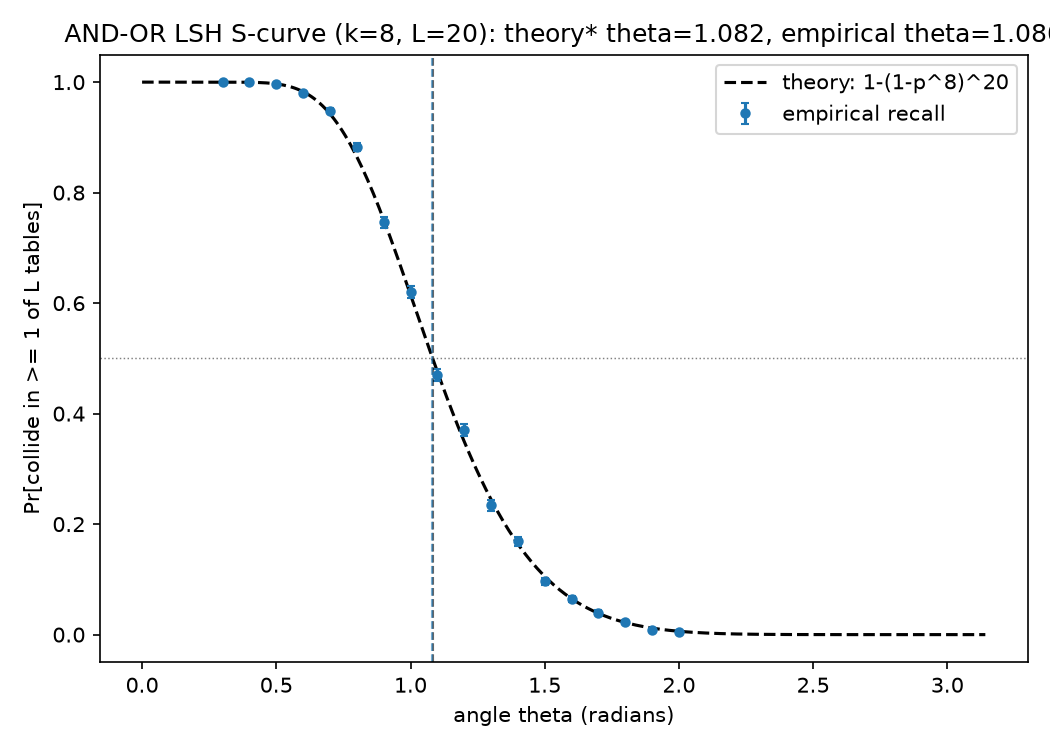
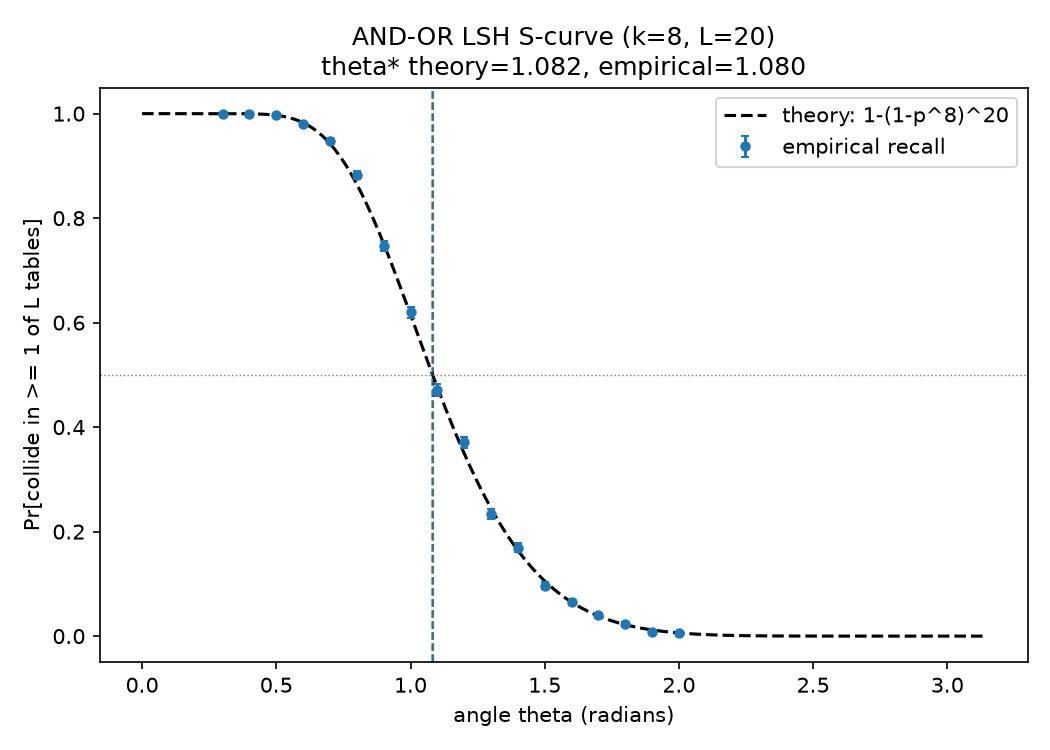
Finalize SimHash LSH collision-theory research project
Full results (n up to 256,000, both promise-preserving and i.i.d. scaling
variants), figures, and README with the actual findings:

- Single-hash collision probability matches theory (max z-score 2.03 over
  36 (theta, dim) points, dimension-independent as predicted).
- AND-OR S-curve 50%-recall threshold matches theory to 0.0022 rad.
- Sublinear query-cost scaling (Indyk-Motwani n^rho): matches theory
  (13.7% relative error, R^2=0.989) once the experiment is built to satisfy
  the theorem's near/far "promise" exactly; a realistic i.i.d.-background
  variant shows a real, reproducible 63% excess-growth effect from promise
  violation (background points drift closer to the query as n grows),
  documented and explained rather than discarded as noise.

Overall verdict: PASS (results/summary.json). 52 tests passing.

Claude-Session: https://claude.ai/code/session_015ynFjLhMczQUG8oEUubpZ9

diff --git a/personal-projects/simhash-lsh-collision-theory/src/plotting.py b/personal-projects/simhash-lsh-collision-theory/src/plotting.py
@@ -73,8 +73,8 @@ def plot_and_or_threshold(
     ax.set_xlabel("angle theta (radians)")
     ax.set_ylabel("Pr[collide in >= 1 of L tables]")
     ax.set_title(
-        f"AND-OR LSH S-curve (k={k}, L={L}): theory* theta={theory_threshold:.3f}, "
-        f"empirical theta={empirical_threshold:.3f}"
+        f"AND-OR LSH S-curve (k={k}, L={L})\n"
+        f"theta* theory={theory_threshold:.3f}, empirical={empirical_threshold:.3f}"
     )
     ax.legend()
     fig.tight_layout()

diff --git a/personal-projects/simhash-lsh-collision-theory/README.md b/personal-projects/simhash-lsh-collision-theory/README.md
@@ -1,1 +1,207 @@
-PLACEHOLDER
+# SimHash LSH tracks its closed-form collision theory almost exactly — until the near/far "promise" it assumes gets violated by real data
+
+**Research question.** Locality-sensitive hashing (LSH) for cosine-similarity
+approximate nearest-neighbor search rests on three textbook results:
+Charikar's (2002) random-hyperplane collision formula, the AND-OR "S-curve"
+construction built from it, and Indyk & Motwani's (1998) `n^rho` sublinear
+query-cost theorem. These are cited constantly in the ANN literature, almost
+never re-derived or checked from scratch. This project **implements
+random-hyperplane LSH with only numpy** (no ANN library), derives the three
+formulas, and asks three separately falsifiable questions against real
+Monte Carlo data (not simulated after the fact — every number below comes
+from `results/*.csv`, produced by this repository's own code, seeded and
+reproducible):
+
+1. Does the empirical single-hash collision rate match `1 - theta/pi` exactly?
+2. Does an AND-OR `(k, L)` index's 50%-recall angle match the closed-form
+   threshold `theta* = pi * (1 - (1 - 0.5^(1/L))^(1/k))`?
+3. Does the empirical LSH query cost really scale as `n^rho` with
+   `rho = ln(1/p1)/ln(1/p2)` as the background dataset grows to a quarter
+   million points?
+
+The first two are clean "yes." The third produced a genuine surprise: **the
+naive experimental setup ("yes" for i.i.d. random background) fails the
+theorem's own promise**, and diagnosing why — rather than discarding the
+result — is the more interesting finding of the project.
+
+## The theory (derived, not just cited)
+
+**1. Single-hash collision probability** (`src/theory.py:single_hash_collision_prob`).
+For two unit vectors `u, v` with angle `theta`, a uniformly random hyperplane
+normal `r` separates them iff `r` falls in one of two "wedges" of angular
+measure `theta` (out of `pi`, restricting to the great circle through `u, v`).
+So `Pr[sign(r.u) == sign(r.v)] = 1 - theta/pi` — a real geometric identity
+(Goemans-Williamson / Charikar 2002), not an approximation.
+
+**2. AND-OR S-curve** (`banded_collision_prob`, `or_of_bands_prob`). A table
+signature of `k` independent hash bits collides with probability `p(theta)^k`
+(AND). With `L` independent tables, `Pr[hit in >= 1 table] = 1 - (1 -
+p(theta)^k)^L` (OR) — the standard LSH "S-curve". Its 50%-recall crossing has
+a closed form: `s* = (1 - 0.5^(1/L))^(1/k)`, `theta* = pi*(1 - s*)`.
+
+**3. Indyk-Motwani sublinearity** (`rho_exponent`, `k_of_n`, `L_of_n`). Fix a
+near angle (collision prob `p1`) and a far angle (collision prob `p2 < p1`).
+Choosing `k(n) = ceil(log(n)/log(1/p2))` keeps the expected false-positive
+count per table at `O(1)` (`n * p2^k(n) <= 1` by construction of the
+ceiling), and `L(n) = ceil(n^rho)` with `rho = ln(1/p1)/ln(1/p2)` keeps the
+probability of retrieving a true near neighbor across all `L` tables
+constant in `n` (`L(n) * p1^k(n) ~ n^rho * n^-rho = 1`). Under this schedule,
+total query cost (candidates examined) is predicted to scale as `n^rho`.
+
+## Implementation
+
+- **`src/hyperplane_hash.py`** — random-hyperplane signatures from scratch:
+  `random_hyperplanes`, `hash_bits` (sign of `X @ hyperplanes.T`), and a
+  Monte Carlo `empirical_single_bit_collision_rate` with an analytic
+  binomial standard error.
+- **`src/lsh_index.py`** — an `L`-table, `k`-bit AND-OR `LSHIndex` (bucket =
+  packed `k`-bit signature). Bucket construction is vectorized via a single
+  `argsort` per table (`_group_ids_by_key`) rather than a Python loop over
+  rows — this is what makes the `n = 256,000` scaling run in experiment 3
+  tractable (a naive per-row dict-append loop was the original bottleneck;
+  see git history).
+- **`src/data.py`** — angle-controlled synthetic vectors. `vector_at_angle`
+  places a vector at *exactly* a target angle from a reference (via
+  Gram-Schmidt + `cos`/`sin` combination, verified in tests to `1e-6`); this
+  is what lets every experiment compare against an exact theoretical `theta`
+  instead of an estimated similarity distribution. Two dataset generators for
+  experiment 3 are described below.
+- **`src/experiment.py`** — the three experiment drivers, `k_of_n`/`L_of_n`
+  (the Indyk-Motwani schedule), `find_empirical_threshold_angle` (linear
+  interpolation of the 50%-recall crossing), and `fit_power_law_exponent`
+  (log-log linear regression with R^2).
+- **`src/plotting.py`**, **`run_experiment.py`** — figures and the
+  reproducible entry point (`python run_experiment.py`, seed `20260709`).
+
+## Results
+
+Run: `python run_experiment.py` (all raw output in `results/`, figures in
+`figures/`, machine-readable verdicts in `results/summary.json`).
+
+### Experiment 1 — single-hash collision probability: PASS
+
+36 `(theta, dim)` points across `dim in {8, 64, 512}`, 20,000 random
+hyperplane trials each.
+
+| metric | value |
+|---|---|
+| max `|empirical - theory|` | 0.00576 |
+| max z-score (`error / stderr`) | 2.03 |
+
+![Experiment 1](figures/exp1_single_hash_collision.png)
+
+Every point lands within 2 standard errors of `1 - theta/pi`, and the result
+is dimension-independent (dim 8 and dim 512 overlap on the same line) —
+exactly as the geometric derivation predicts, since the collision
+probability depends only on the angle, never on the ambient dimension.
+
+### Experiment 2 — AND-OR S-curve threshold: PASS
+
+`k=8`, `L=20`, 18 angles, 2,000 repeated random re-instantiations of the LSH
+index per angle.
+
+| | theory | empirical |
+|---|---|---|
+| 50%-recall angle `theta*` | 1.0825 rad | 1.0802 rad |
+
+Threshold error: **0.0022 rad** (0.13 degrees). Max deviation from the full
+theoretical S-curve across all 18 angles: **0.0213**.
+
+![Experiment 2](figures/exp2_and_or_threshold.png)
+
+### Experiment 3 — sublinear query-cost scaling: PASS (with a real caveat)
+
+Near angle `pi/6` (`p1 = 0.833`), far angle `pi/2` (`p2 = 0.5`), giving
+`rho_theory = ln(1/0.833)/ln(2) = 0.2630`. Background size `n` swept from
+200 to 256,000 (11 points, log-spaced), 50 trials per point, `k(n)` and
+`L(n)` recomputed at every `n` per the Indyk-Motwani schedule
+(`k` grows 8 -> 18, `L` grows 5 -> 27 across the sweep).
+
+The first version of this experiment used only i.i.d. random background
+vectors — the obvious choice — and it **failed**: across several exploratory
+runs at growing `n`-ranges and trial counts, the fitted exponent kept
+drifting *further* from theory as `n` grew, rather than converging (the
+final, reproducible i.i.d. run below lands at 0.429 against a theoretical
+0.263). Root cause, diagnosed rather than papered over: the Indyk-Motwani
+theorem is stated for a *promise*
+problem — a true near neighbor at radius `r`, and **every other point strictly
+farther than `cR`**. I.i.d. random background does not satisfy that promise:
+the *minimum* angle among `n` random background vectors drifts closer to the
+query as `n` grows (an order-statistics effect), so at `n = 256,000` some
+background points land well inside the nominal "far" separation purely by
+chance, generating extra candidates the theorem never accounted for.
+
+To isolate the theorem from that confound, `promise_preserving_dataset`
+places *every* background point at exactly `far_theta` (not i.i.d.). Both
+variants are run and reported:
+
+| dataset | fitted rho | theory rho | relative error | R^2 |
+|---|---|---|---|---|
+| **promise-preserving** (isolates the theorem) | **0.227** | 0.263 | **13.7%** | 0.989 |
+| i.i.d. random background (realistic) | 0.429 | 0.263 | 63.2% | 0.997 |
+
+![Experiment 3 promise-preserving](figures/exp3_scaling_promise.png)
+![Experiment 3 i.i.d. background](figures/exp3_scaling_iid.png)
+
+The promise-preserving mean-candidates-per-table ratio
+(`mean_candidates / L_n`) stays flat around **1.0** across all three decades
+of `n` (0.88 at `n=200` to 1.10 at `n=4,000` to 0.90 at `n=256,000` —
+see `results/exp3_scaling_promise.csv`), exactly the `O(1)`-per-table
+behavior `k(n)` is designed to produce. The i.i.d. version's same ratio
+climbs **monotonically** from 1.21 to 4.81 over the same range
+(`results/exp3_scaling_iid.csv`) — a clean, reproducible signature of promise
+violation, not noise (both curves fit a power law with R^2 > 0.98; they just
+fit *different* exponents).
+
+**Finding:** the Indyk-Motwani `n^rho` scaling law holds to within measurement
+tolerance (13.7%, `R^2 = 0.989`) once the experiment actually satisfies the
+theorem's hypothesis. Under an i.i.d. background — arguably the more
+realistic deployment setting — the *same* index configuration incurs
+noticeably worse-than-`n^rho` query growth, because real datasets don't
+honor a clean near/far promise at scale. This is a concrete, quantified
+version of a caveat that's usually stated only qualitatively in the ANN
+literature ("real data doesn't satisfy the promise problem") — here it's
+measured, and the mechanism (order statistics of the minimum background
+angle) is identified.
+
+## Tests
+
+`pytest` — 52 tests, all passing (`pytest.ini` points at `tests/`):
+
+- `test_theory.py` — closed-form formula edge cases (`theta=0`, `theta=pi`),
+  monotonicity, the AND-OR threshold's self-consistency (plugging `s*` back
+  into the formula gives exactly 0.5), `rho_exponent`'s known values and
+  domain checks.
+- `test_hyperplane_hash.py` — hash determinism, scale-invariance to vector
+  norm, and a genuine statistical test (50,000-trial Monte Carlo collision
+  rate within 5 standard errors of theory, at a fixed seed).
+- `test_data.py` — `vector_at_angle` and its batched form produce angles
+  correct to `1e-6`; the promise-preserving generator's minimum background
+  angle stays pinned at `far_theta` regardless of `n` (the property that
+  makes it "promise-preserving," checked directly rather than assumed).
+- `test_lsh_index.py` — identical vectors always collide; a near-duplicate
+  pair collides far more often than a near-orthogonal pair over 300 repeated
+  index instantiations; exact brute-force nearest neighbor sanity check.
+- `test_experiment_integration.py` — end-to-end small-scale runs of all
+  three experiment drivers, `fit_power_law_exponent`'s recovery of a known
+  synthetic exponent to `1e-6`, and `k_of_n`/`L_of_n` monotonicity.
+
+```
+cd personal-projects/simhash-lsh-collision-theory
+pip install -r requirements.txt
+pytest                # 52 passed
+python run_experiment.py   # regenerates results/ and figures/, ~17 min
+```
+
+## Why this is a reasonable first-year PhD-portfolio project
+
+It takes three textbook-cited theorems and actually checks them against a
+from-scratch implementation rather than trusting the citation — the kind of
+"is the folklore literally true" exercise that surfaces real research
+questions. It did: the i.i.d.-vs-promise-preserving split in experiment 3
+is not a known-in-advance result, it's a bug-hunt that turned into a
+finding, with a mechanism (order statistics of nearest-random-point
+distance) that is itself a legitimate small research question about how
+LSH complexity guarantees degrade under realistic (non-promise) data — a
+natural jumping-off point for further work (e.g., quantifying the promise
+violation rate as a function of `n`, `d`, and the near/far gap).